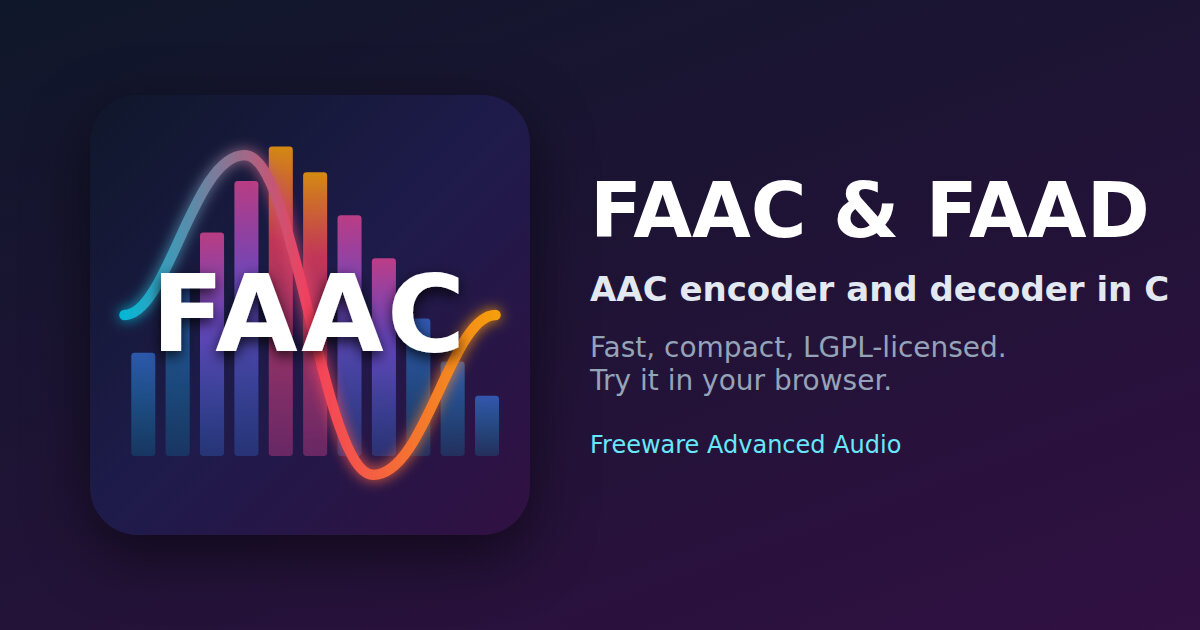
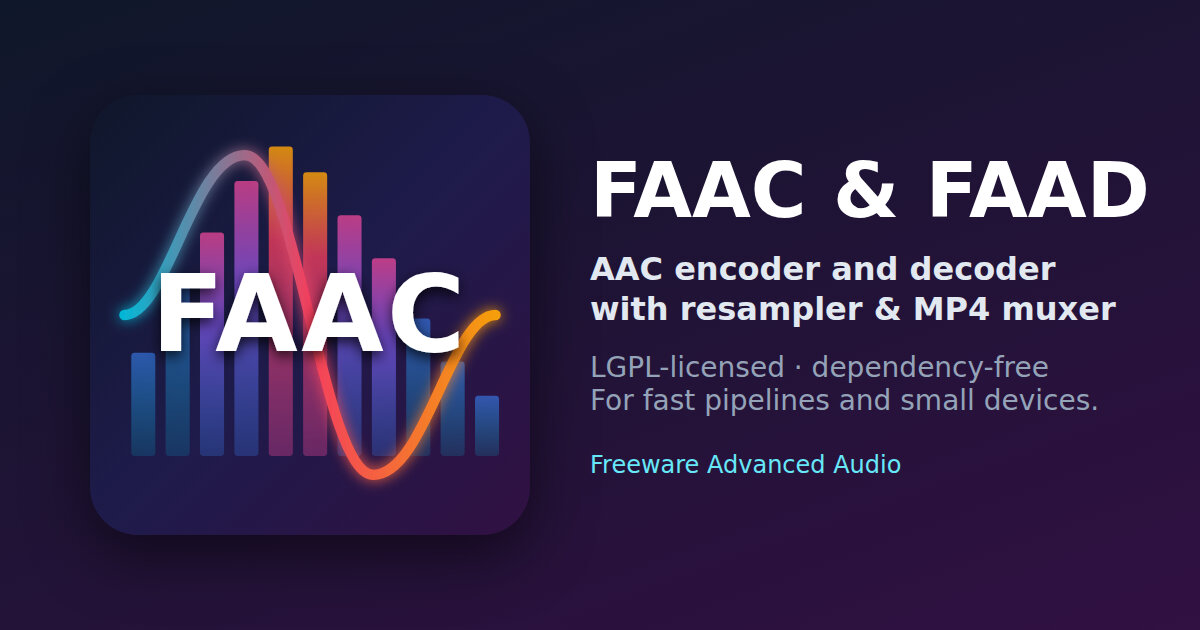
Align site metadata with the FAAC suite description
Describe FAAC as a dependency-free AAC encoder and decoder suite with a
resampler and MP4 muxer, add SoftwareSourceCode JSON-LD, refresh the
share image, and drop the organization framing from the README and
package description.

Changed region(s): [[0.4933, 0.2413, 0.9867, 0.6635], [0.4933, 0.6937, 0.7708, 0.754]]

diff --git a/docs/.vitepress/config.ts b/docs/.vitepress/config.ts
@@ -6,7 +6,7 @@ const origin = process.env.SITE_ORIGIN || 'https://freewareadvancedaudio.github.
 export default defineConfig({
   base,
   title: 'Freeware Advanced Audio',
-  description: 'FAAC and FAAD documentation, benchmarks and a free online AAC converter. LGPL-licensed AAC encoder and decoder libraries in C.',
+  description: 'FAAC is an LGPL-licensed, dependency-free AAC encoder and decoder suite with a resampler and MP4 muxer, built for fast media pipelines and constrained devices.',
   titleTemplate: ':title | Freeware Advanced Audio',
   cleanUrls: true,
   vite: {
@@ -71,7 +71,7 @@ export default defineConfig({
       ['meta', { property: 'og:image:type', content: 'image/jpeg' }],
       ['meta', { property: 'og:image:width', content: '1200' }],
       ['meta', { property: 'og:image:height', content: '630' }],
-      ['meta', { property: 'og:image:alt', content: 'FAAC and FAAD: AAC encoder and decoder in C' }],
+      ['meta', { property: 'og:image:alt', content: 'FAAC and FAAD: dependency-free AAC encoder, decoder, resampler and MP4 muxer' }],
       ['meta', { name: 'twitter:title', content: fullTitle }],
       ['meta', { name: 'twitter:description', content: description }],
       ['meta', { name: 'twitter:image', content: image }]
@@ -89,6 +89,17 @@ export default defineConfig({
             alternateName: ['FAAC', 'FAAD', 'FAAC and FAAD'],
             description: site.description,
             inLanguage: 'en'
+          },
+          {
+            '@type': 'SoftwareSourceCode',
+            '@id': `${root}#software`,
+            name: 'FAAC',
+            alternateName: ['FAAD', 'FAAM', 'FAAR'],
+            description: 'LGPL-licensed, dependency-free AAC encoder and decoder suite with a resampler and MP4 muxer.',
+            programmingLanguage: 'C',
+            license: 'https://www.gnu.org/licenses/old-licenses/lgpl-2.1.html',
+            codeRepository: 'https://github.com/FreewareAdvancedAudio',
+            url: root
           },
           {
             '@type': 'Organization',

diff --git a/docs/index.md b/docs/index.md
@@ -1,8 +1,8 @@
 ---
 layout: home
-title: "FAAC & FAAD: Fast, Free AAC Encoder and Decoder in C"
+title: "FAAC & FAAD: Dependency-Free AAC Encoder and Decoder in C"
 titleTemplate: false
-description: "FAAC and FAAD are LGPL-licensed AAC encoder and decoder libraries in C. Read the docs, compare benchmarks, and convert audio online in your browser."
+description: "FAAC is an LGPL-licensed, dependency-free AAC encoder and decoder suite with a resampler and MP4 muxer, built for fast media pipelines and constrained devices. Read the docs and try it in your browser."
 hero:
   name: "Freeware Advanced Audio"
   text: "Fast, compact AAC encoding and decoding in C"

diff --git a/README.md b/README.md
@@ -1,6 +1,6 @@
-# Freeware Advanced Audio Organization (FAAC & FAAD)
+# FAAC & FAAD
 
-Official website and technical documentation platform for **FAAC** (AAC encoder) and **FAAD** (AAC decoder), built with VitePress. Both libraries are licensed under LGPL v2.1+.
+Website and documentation for **FAAC**, an LGPL-licensed, dependency-free AAC encoder and decoder suite with a resampler and MP4 muxer, built with VitePress. It targets high-throughput media pipelines and constrained devices where footprint, speed, and quality all matter.
 
 ---
 
